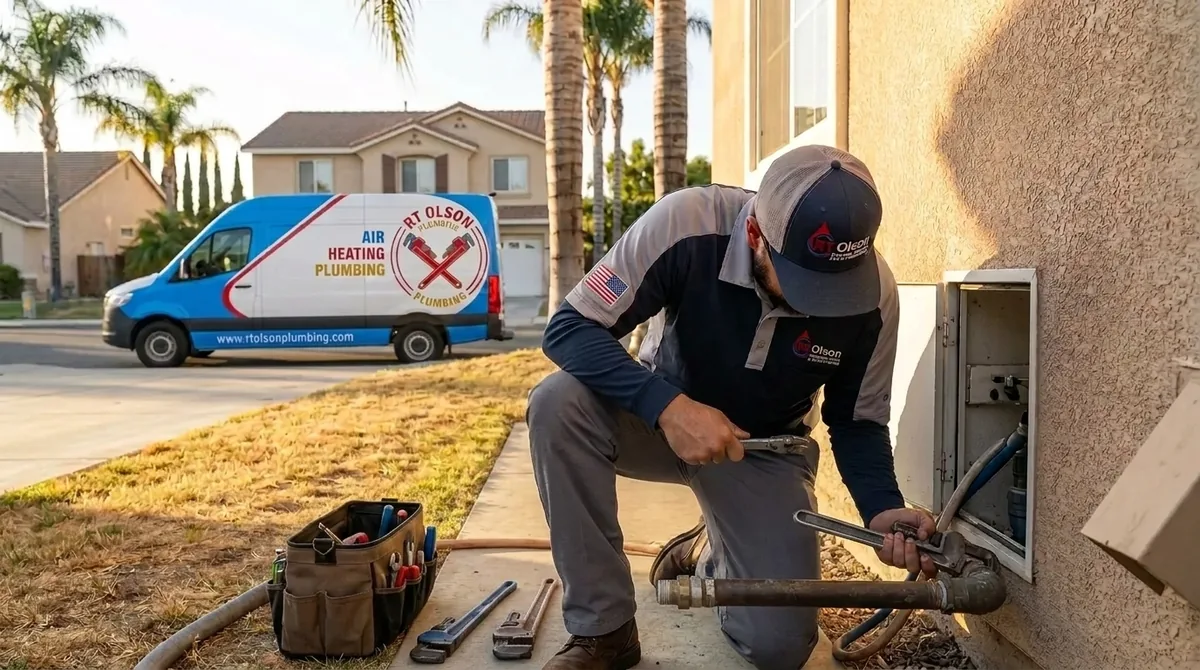
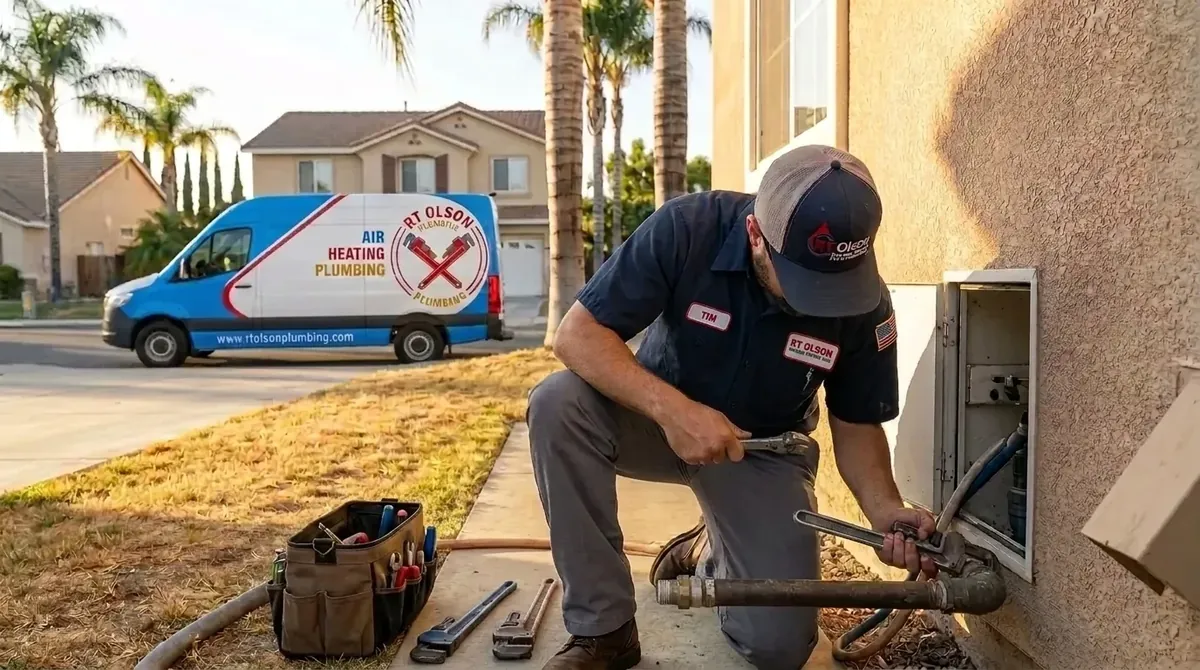
DEV AGENT: rt-olson-plumbing-heating-and-air-conditioning — put the emergency-plumbing technician in the real RT Olson uniform
Client feedback (Bobby Olson, 2026-09-04): "The emergency plumber is not in
our uniform." The emergency-plumbing card showed a two-tone gray/navy athletic
pullover. Targeted edit (scene preserved per rule 2b): swapped it for the real
uniform — a solid navy button-up work shirt with the RT OLSON red chest patch,
gray pants and a single American flag sleeve patch, matching
harvested/uniform-crew-tim.jpg. Van, house, tools and pose left untouched.
CREW-OVERRIDE + rule 4 tightened to reject the athletic pullover on rebuild.

diff --git a/clients/rt-olson-plumbing-heating-and-air-conditioning/image-style-guide.md b/clients/rt-olson-plumbing-heating-and-air-conditioning/image-style-guide.md
@@ -23,7 +23,10 @@
    This is the crew's REAL uniform (see harvested/uniform-crew-tim.jpg): a
    navy-blue button-up work shirt with the RT Olson logo on the left chest, gray
    work pants, and a small American flag patch on the sleeve. A tan/khaki shirt,
-   dark non-gray pants, or a missing flag patch = REJECTED image. This is the ONE
+   dark non-gray pants, a missing flag patch, or a two-tone/raglan athletic
+   pullover or T-shirt in place of the button-up shirt = REJECTED image (Bobby,
+   2026-09-04: *"The emergency plumber is not in our uniform."* — an athletic
+   pullover had slipped onto the emergency-plumbing card). This is the ONE
    uniform for the whole site — no drift between pages. See CREW-OVERRIDE.
 5. **RESIDENTIAL SCENES AND GEAR ONLY.** Bobby: *"Replace any commercial-only gear
    imagery (e.g., hydrostatic pump) with appropriate residential visuals."* No
@@ -33,7 +36,7 @@
    exterior wall. A toilet or fixture being serviced outside is a REJECTED image.
 
 VAN-OVERRIDE: RT Olson's real high-roof Mercedes Sprinter van with a FULL SOLID BLUE HOOD and blue front (the entire hood is blue, never white), a white body panel crossed by a red diagonal accent stripe, and the RT Olson crossed-pipe-wrench logo mark — matching harvested/van-sprinter-blue-hood-007.jpg; carry only the logo mark with NO phone number, NO website URL and NO readable text anywhere on the vehicle, and keep every van in the site identical to this one
-CREW-OVERRIDE: the technician wears a navy-blue button-up work shirt with the RT Olson logo on the left chest, gray work pants, and a small American flag patch on the sleeve, the identical uniform in every image, never a tan or khaki shirt and never dark non-gray pants
+CREW-OVERRIDE: the technician wears a SOLID navy-blue button-up short-sleeve work shirt (collar and button placket, the body and sleeves the same solid navy) with the RT Olson logo on the left chest, gray work pants, and a small American flag patch on the sleeve, the identical uniform in every image, never a tan or khaki shirt, never dark non-gray pants, and never a two-tone or raglan-sleeve athletic pullover/T-shirt in place of the button-up shirt
 EQUIPMENT-OVERRIDE: residential service gear only in a residential setting — no commercial-only equipment such as hydrostatic test pumps or trailer-mounted jetters, and toilet, faucet and fixture work is shown inside a residential bathroom, never outdoors
 LIVERY-REFERENCE: harvested/van-sprinter-blue-hood-007.jpg
 
